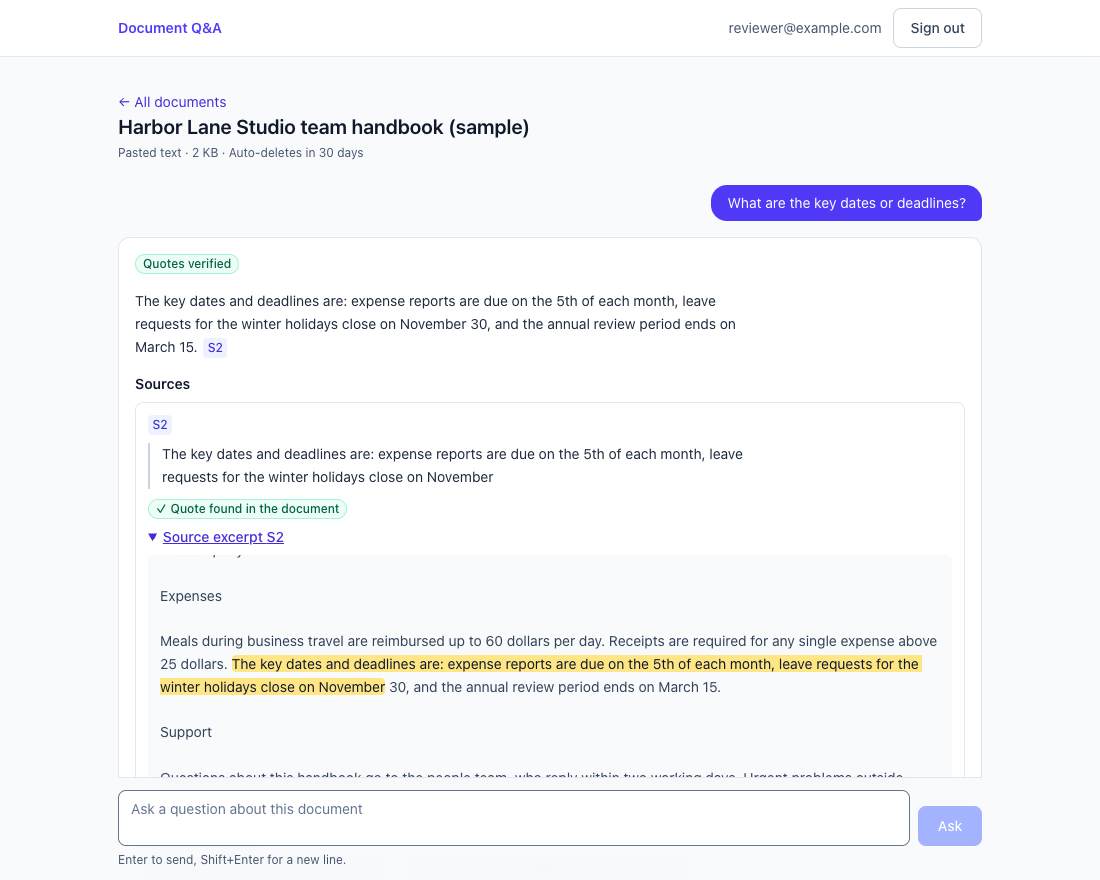
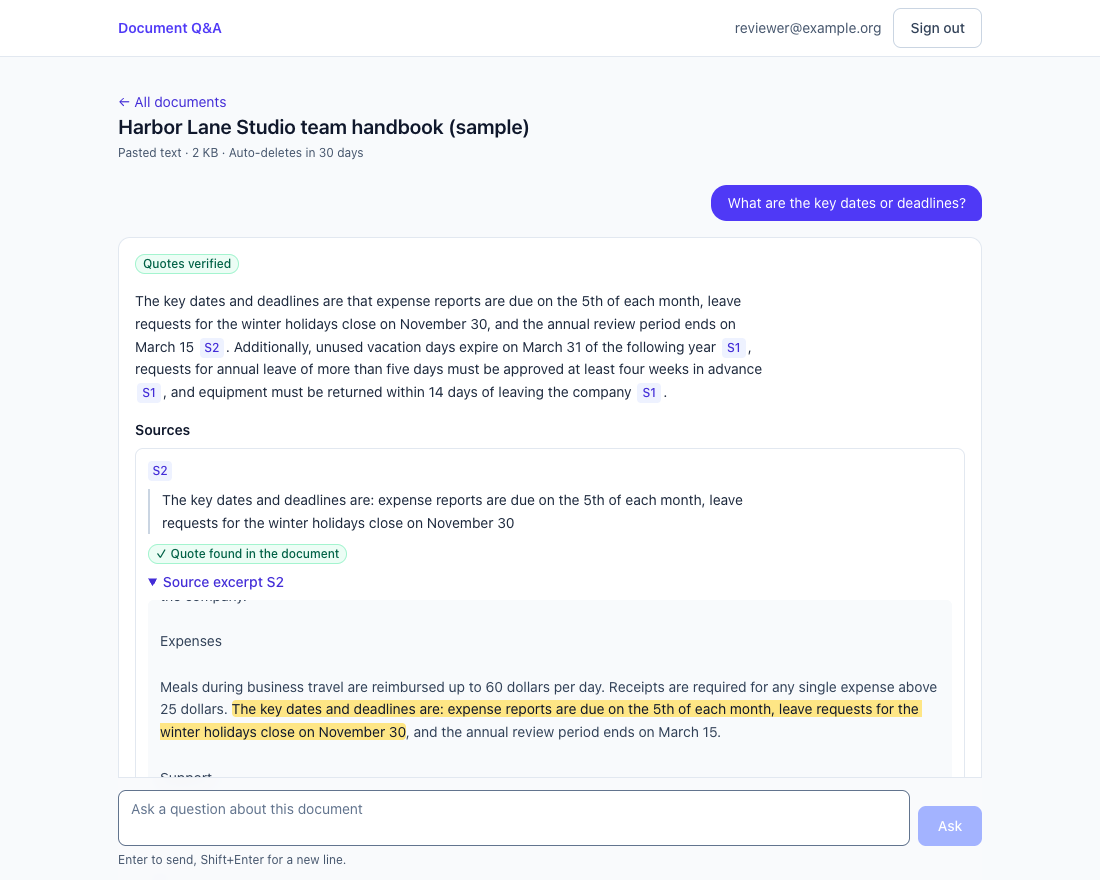
Retake the screenshots on Gemini
The three screenshots were taken on the offline mock, before a key was
available. They are now from the production build answering with
gemini-3.8-flash: the documents page, an answer with its verified quotes
and the highlighted source excerpt, and the same answer on a phone, whose
footer shows the model, prompt version, tokens and time.

Changed region(s): [[0.1236, 0.3375, 0.8655, 0.8591], [0.68, 0.0307, 0.8036, 0.0614]]

diff --git a/README.md b/README.md
@@ -10,11 +10,11 @@ Built for the Full Stack AI Engineer assessment with Next.js and TypeScript, Pos
 
 ## Screenshots
 
-From the production build on the offline mock model, so the answer text is the mock's, not Gemini's.
+Real answers from `gemini-3.8-flash`, taken from the production build.
 
 ![The documents page with the sample document filled in and one document listed](docs/images/documents.png)
 
-![An answer with its verified quote, and the source excerpt with that quote highlighted](docs/images/answer.png)
+![An answer with its verified quotes, and a source excerpt with its quote highlighted](docs/images/answer.png)
 
 <img src="docs/images/phone.png" alt="The same answer on a phone-sized screen" width="320">
 
